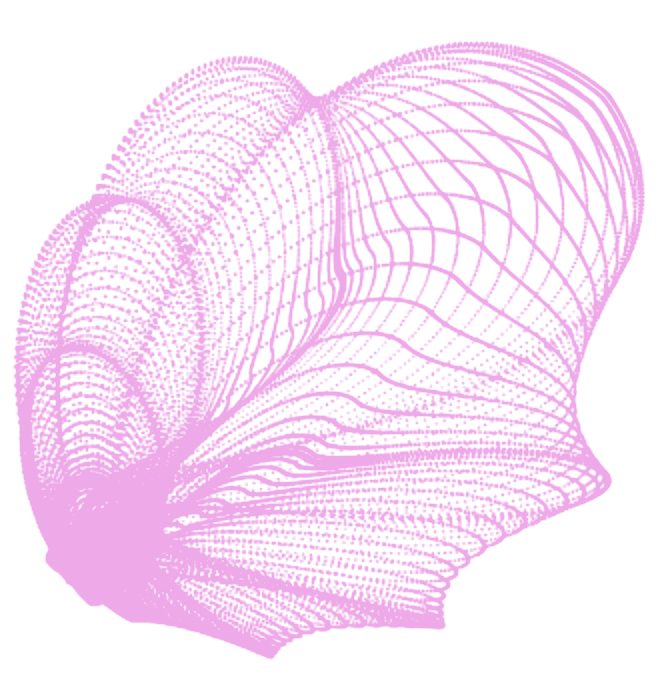
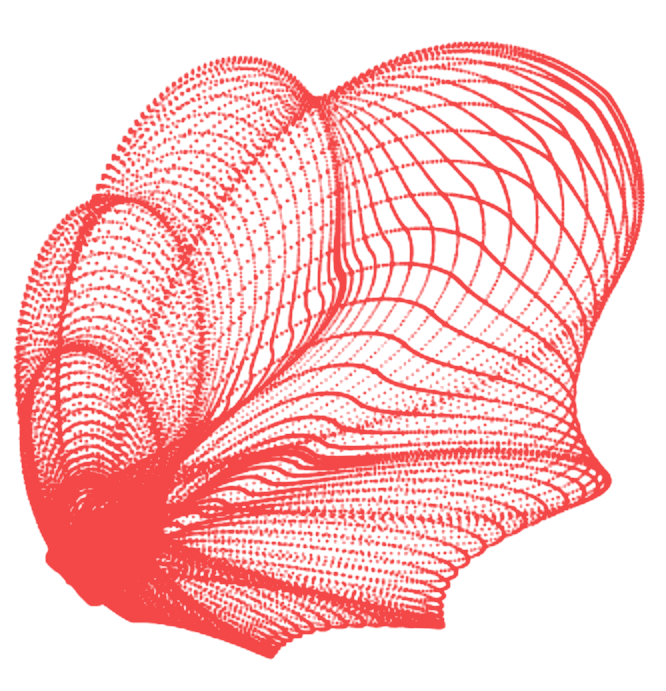
Turn Gamma Barbecue red, bright enough to read either way round

diff --git a/gmmbbq.html b/gmmbbq.html
@@ -24,18 +24,19 @@
   <link rel="preconnect" href="https://fonts.gstatic.com" crossorigin>
   <link href="https://fonts.googleapis.com/css2?family=Sanchez:ital@0;1&display=swap" rel="stylesheet">
   <style>
-    /* GMMBBQ runs on play's pair: the site's near-black and magenta, exact
-       complements channel by channel, and --tone-swap their sum -- the
+    /* GMMBBQ runs on its own pair: the site's near-black and a red bright
+       enough to read on it (5.4:1 either way round, so both the dark page
+       and the turned one hold AA), and --tone-swap their sum -- the
        operand the cursor ring (assets/cursor.js) paints itself with by
        difference. It is its own page rather than a project, so it scrolls
        natively and carries its own styles instead of page.css's fixed shell. */
     :root {
       --tone-dark: #0b0e13;
-      --tone-light: #eeaae8;
+      --tone-light: #f44848;
       --tone-dark-rgb: 11, 14, 19;
-      --tone-light-rgb: 238, 170, 232;
-      --tone-swap: #f9b8fb;
-      --tone-swap-rgb: 249, 184, 251;
+      --tone-light-rgb: 244, 72, 72;
+      --tone-swap: #ff565b;
+      --tone-swap-rgb: 255, 86, 91;
       --bg: var(--tone-dark);
       --ink: var(--tone-light);
       --ink-rgb: var(--tone-light-rgb);
@@ -112,8 +113,8 @@
     .media { border-radius: 4px; overflow: hidden; background: rgba(var(--ink-rgb), 0.06); }
     .media img, .media video { width: 100%; height: 100%; object-fit: cover; }
     /* Drawings are ink: they take --ink by being masks, not pictures. A
-       drawing is a pink PNG from scripts/build_slide_art.py; turned over,
-       it would be pink on pink, so the inverted page darkens it instead. */
+       drawing is a red PNG (scripts/build_slide_art.py's line work, repainted
+       in the page's red); turned over, it would be red on red, so the inverted page darkens it instead. */
     .art { background: none; }
     .art img { object-fit: contain; }
     body.inverted .art img { filter: brightness(0.06); }
@@ -310,11 +311,11 @@
          the ones from Readymag were saved off that site as it cropped them. -->
     <header class="hero wrap">
       <!-- The Gamma Barbecue logo itself (assets/Asset 1.png), inked twice --
-           pink for the dark page, near-black for the turned one -- because an
+           red for the dark page, near-black for the turned one -- because an
            image cannot take the page's colour and a CSS mask will not load
            from disk. -->
       <h1 class="hero-logo">
-        <img class="on-dark" src="assets/gmmbbq/about/logo-pink.png" alt="Gamma Barbecue" width="1595" height="470">
+        <img class="on-dark" src="assets/gmmbbq/about/logo-red.png" alt="Gamma Barbecue" width="1595" height="470">
         <img class="on-light" src="assets/gmmbbq/about/logo-dark.png" alt="" width="1595" height="470">
       </h1>
       <div class="sub"><span>new media stuff</span><span>deep fried experiences</span></div>
@@ -753,8 +754,8 @@
         return c;
       }
       // Two shades for the flock and the colour a charge pulls them towards,
-      // read off the page so they follow the turn: on the dark, pink going
-      // to paper; on the pink, near-black going darker still.
+      // read off the page so they follow the turn: on the dark, red going
+      // to paper; on the red, near-black going darker still.
       let shades = [], glow = null;
       function mix(a, b, t) { return a.map((v, i) => Math.round(v + (b[i] - v) * t)); }
       function rgbOf(v) { return v.split(',').map((n) => parseInt(n, 10) || 0); }
